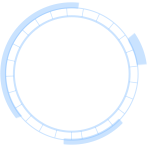
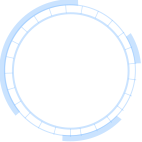
综合态势

Changed region(s): [[0.0, 0.0, 1.0, 1.0], [0.1972, 0.8451, 0.2254, 0.8732]]

diff --git a/src/components/comprehensive.vue b/src/components/comprehensive.vue
@@ -144,9 +144,11 @@
         </sideItem>
         <sideItem title="学生实时分布" transitionType="right" :delay="200">
           <div slot="body" class="studentdistribution">
-            <img src="../assets/pieimg/comprehensive/comprehensiveoutpie.png" class="comprehensiveoutpie" />
-            <img src="../assets/pieimg/comprehensive/innercircle.png" class="innercircle" />
-            <div id="studentdistribution"></div>
+            <div class="box">
+              <img src="../assets/pieimg/comprehensive/comprehensiveoutpie.png" class="comprehensiveoutpie" />
+              <img src="../assets/pieimg/comprehensive/innercircle.png" class="innercircle" />
+              <div id="studentdistribution"></div>
+            </div>
             <div class="detailBox">
               <div class="row" v-for="(item,i) in stuDisList" :key="i">
                 <div class="title">
@@ -199,8 +201,8 @@
         </sideItem>
         <sideItem title="国有资产" transitionType="right" :delay="400">
           <div slot="body" class="assets-Status">
-            <img class="bg1" src="../assets/compre/bg-asset1.png" alt=""/>
-            <img class="bg2" src="../assets/compre/bg-asset2.png" alt=""/>
+            <img class="bg1" src="../assets/compre/bg-asset1.png" alt />
+            <img class="bg2" src="../assets/compre/bg-asset2.png" alt />
             <div class="chart-asset" id="assetChart"></div>
           </div>
         </sideItem>
@@ -419,7 +421,7 @@ export default {
         { "value": 10, "name": "餐厅/食堂", color: "rgba(253, 161, 79, 1)" },
         { "value": 10, "name": "其他位置", color: "rgba(68,165,255,1)" }
       ];
-      let maxRadius = 80,
+      let maxRadius = 90,
         barWidth = 5,
         barGap = 5;
       let sumValue = this.stuDisList.reduce((sum, item) => sum + item.value, 0);
@@ -594,8 +596,8 @@ export default {
             legendHoverLink: false,
             radius: ['71%', '71%'],
             center: ['50%', '50%'],
-             tooltip:{
-                show:false
+            tooltip: {
+              show: false
             },
             label: {
               normal: {
@@ -606,8 +608,8 @@ export default {
                 rich: {
                   per: {
                     padding: [4, 0],
-                    color:'rgba(255, 255, 255, 0.8)',
-                    fontSize:'12px'
+                    color: 'rgba(255, 255, 255, 0.8)',
+                    fontSize: '12px'
                   },
                   hr: {//设置hr是为了让中间线能够自适应长度
                     borderColor: 'rgba(106, 176, 255, 1)',
@@ -895,30 +897,35 @@ span {
 }
 
 .studentdistribution {
+  margin-top: 10px;
   position: relative;
   display: flex;
   justify-content: space-between;
   align-items: center;
-  #studentdistribution {
-    height: 200px;
-    width: 200px;
-    // position: absolute;
-    // left: 0px;
+  .box {
+    position: relative;
+    #studentdistribution {
+      height: 160px;
+      width: 160px;
+    }
+    .comprehensiveoutpie {
+      position: absolute;
+      width: 160px;
+      left: 0;
+      top: 0;
+    }
+    .innercircle {
+      width: 24px;
+      height: 26px;
+      position: absolute;
+      left: calc(50% - 12px);
+      top: calc(50% - 13px);
+    }
   }
-  .comprehensiveoutpie {
-    position: absolute;
-    width: 186px;
-    left: 6px;
-    top: 7px;
-  }
-  .innercircle {
-    position: absolute;
-    left: 23%;
-    top: 43%;
-  }
+
   .detailBox {
     flex: 1;
-    height: 200px;
+    height: 160px;
     margin: 0 10px;
     display: flex;
     flex-direction: column;
@@ -1000,6 +1007,7 @@ span {
   }
 }
 .assets-Status {
+  margin-top: 10px;
   padding: 0 16px;
   width: 340px;
   position: relative;
@@ -1007,21 +1015,21 @@ span {
     width: 340px;
     height: 180px;
   }
-  .bg1{
+  .bg1 {
     width: 140px;
     height: 140px;
     position: absolute;
     left: calc(50% - 70px);
     top: calc(50% - 70px);
-    animation: rotateAnim1 5s infinite linear; 
+    animation: rotateAnim1 5s infinite linear;
   }
-  .bg2{
-    width: 180px;
-    height: 180px;
+  .bg2 {
+    width: 190px;
+    height: 190px;
     position: absolute;
-    left: calc(50% - 90px);
-    top: calc(50% - 90px);
-    animation: rotateAnim2 5s infinite linear; 
+    left: calc(50% - 95px);
+    top: calc(50% - 95px);
+    animation: rotateAnim2 5s infinite linear;
   }
 }
 /* 旋转动画 */

diff --git a/src/components/energyUsage.vue b/src/components/energyUsage.vue
@@ -1044,7 +1044,7 @@ span {
     }
     .detailBox {
       flex: 1;
-      height: 100%;
+      height: 150px;
       margin-left: 34px;
       display: flex;
       flex-direction: column;
